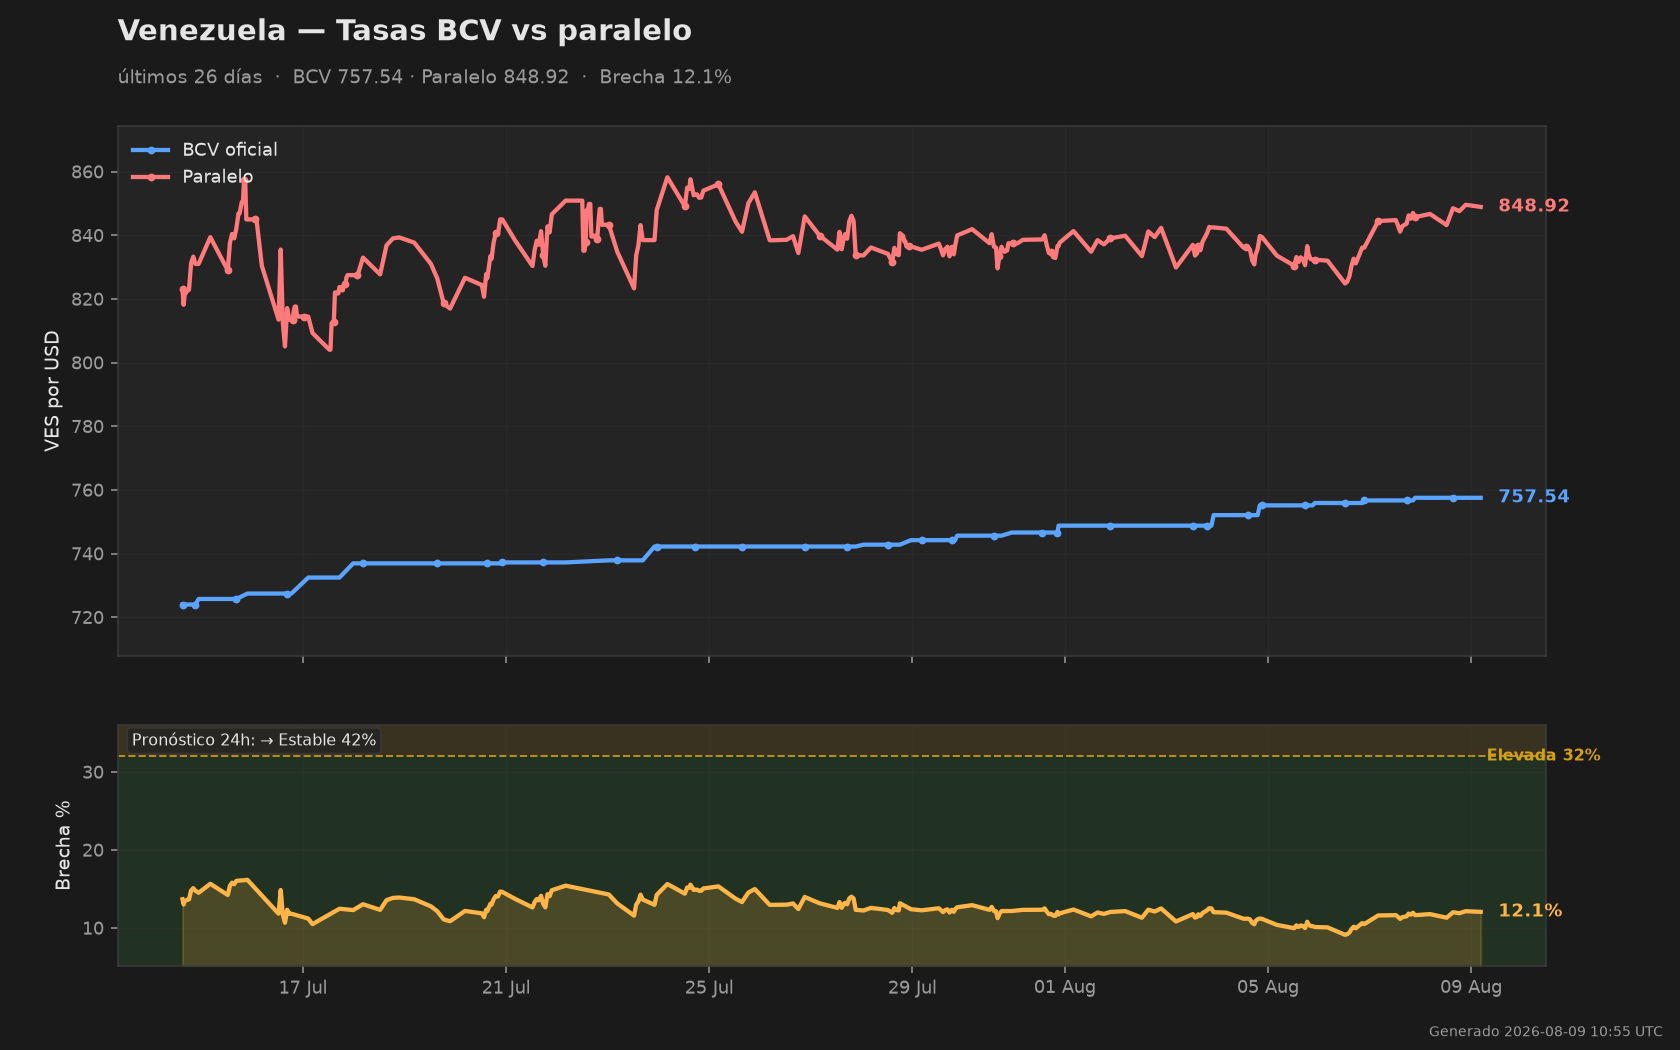
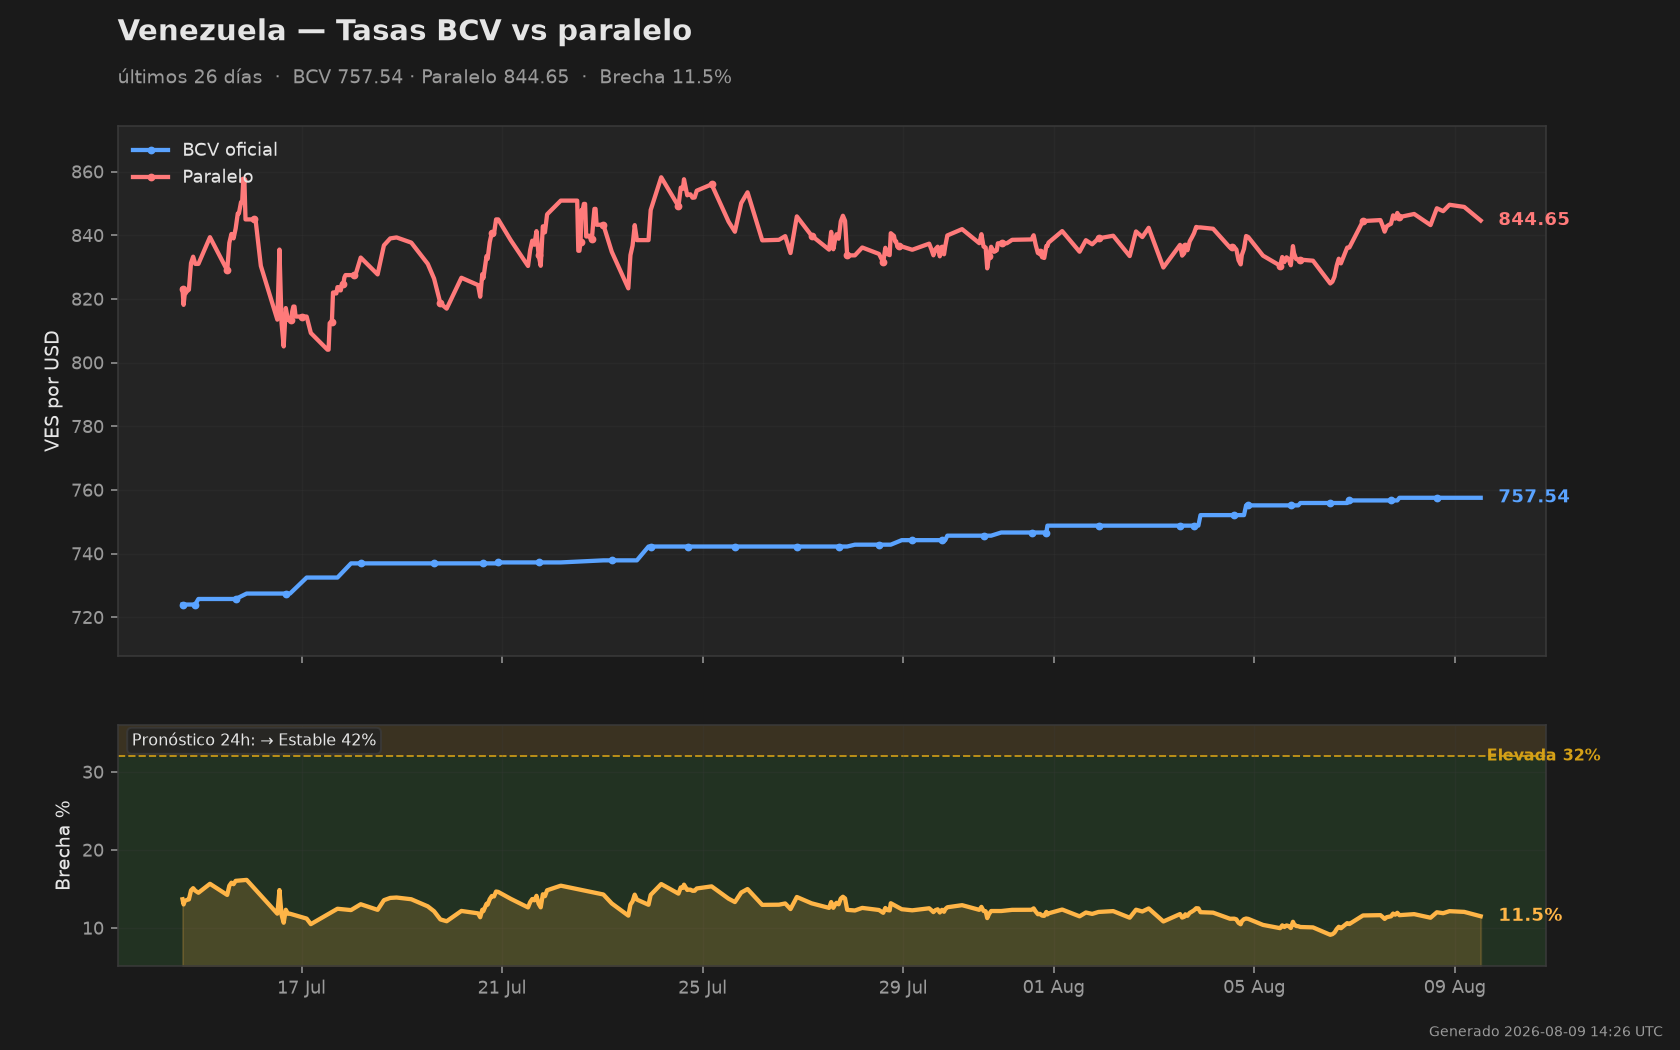
Dashboard update 2026-08-09 14:26 UTC

diff --git a/README.md b/README.md
@@ -11,11 +11,11 @@
 | Metric · Métrica | Value · Valor |
 |---|---|
 | BCV Oficial | **757.54** VES/USD |
-| Paralelo | **848.92** VES/USD |
-| Brecha · Spread | **12.1%** |
-| Binance P2P USDT/VES | **863.78** VES/USDT (+1.7% vs paralelo) |
+| Paralelo | **844.65** VES/USD |
+| Brecha · Spread | **11.5%** |
+| Binance P2P USDT/VES | **864.23** VES/USDT (+2.3% vs paralelo) |
 | **Pronóstico 24h · 24h Forecast** | **→ Estable · Stable (71%)** |
-| Actualizado · Updated | 2026-08-09 04:31 UTC |
+| Actualizado · Updated | 2026-08-09 12:25 UTC |
 
 ![Venezuela BCV vs parallel rate — last 30 days](data/chart.png)
 
@@ -29,8 +29,8 @@ Cada día compiten dos modelos sobre el mismo pronóstico: una **línea base** (
 
 | Model · Modelo | Brier ↓ | vs Baseline | Forecasts Scored · Evaluados |
 |---|---|---|---|
-| naive (baseline) | 0.702 ± 0.052 | — | 81 |
-| stat | 0.686 ± 0.051 | −0.017 ≈ | 81 |
+| naive (baseline) | 0.697 ± 0.053 | — | 82 |
+| stat | 0.679 ± 0.052 | −0.018 ≈ | 82 |
 
 *Accumulating live data since May 2026 · Acumulando datos en vivo desde mayo 2026*
 
